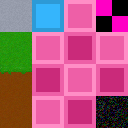
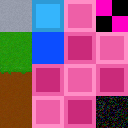
add rudimentary water

Changed region(s): [[0.25, 0.25, 0.5, 0.5]]

diff --git a/src/scene/world/scene.rs b/src/scene/world/scene.rs
@@ -22,10 +22,7 @@ use crate::{
 use raylib::{
     RaylibHandle,
     color::Color,
-    drawing::{
-        RaylibBlendModeExt, RaylibDraw, RaylibDraw3D, RaylibDrawHandle, RaylibMode3D,
-        RaylibMode3DExt,
-    },
+    drawing::{RaylibBlendModeExt, RaylibDraw, RaylibDraw3D, RaylibDrawHandle, RaylibMode3DExt},
     ffi,
     math::{BoundingBox, Vector3},
 };
@@ -62,7 +59,8 @@ pub struct WorldScene {
     player: Player,
     camera: Camera,
     level: Level,
-    level_mesh: Option<ffi::Model>,
+    level_mesh_opaque: Option<ffi::Model>,
+    level_mesh_water: Option<ffi::Model>,
     level_mesh_is_dirty: bool,
 }
 
@@ -92,7 +90,8 @@ impl WorldScene {
                 ZOOM_FOVY_DEFAULT,
             ),
             level,
-            level_mesh: None,
+            level_mesh_opaque: None,
+            level_mesh_water: None,
             level_mesh_is_dirty: true,
         }
     }
@@ -230,23 +229,38 @@ impl WorldScene {
 
         self.camera.update(&rl);
 
+        if self.level_mesh_is_dirty {
+            let (opaque_mesh, water_mesh) = build_mesh(&self.level.blocks);
+            self.level_mesh_opaque =
+                Some(make_model(upload_mesh(opaque_mesh), &assets.texture_atlas));
+            self.level_mesh_water =
+                Some(make_model(upload_mesh(water_mesh), &assets.texture_atlas));
+            self.level_mesh_is_dirty = false;
+        }
+
         Transition::None
     }
 
-    pub fn draw(&mut self, d: &mut RaylibDrawHandle, assets: &GameAssets) {
+    pub fn draw(&self, d: &mut RaylibDrawHandle, assets: &GameAssets) {
         d.clear_background(Color::SKYBLUE);
 
         let mut d3 = d.begin_mode3D(&self.camera.raycam);
 
-        self.draw_world_mesh(&mut d3, &assets);
+        if let Some(opaque) = self.level_mesh_opaque {
+            draw_mesh(opaque, self.is_showing_wireframe, 1.0);
+        }
+
+        self.player.draw(&mut d3, &self.camera, &assets);
+
+        if let Some(water) = self.level_mesh_water {
+            draw_mesh(water, self.is_showing_wireframe, 0.3);
+        }
 
         if let Some((x, y, z, ..)) = &self.hovered_block {
             let (x, y, z) = (*x as f32, *y as f32, *z as f32);
 
             d3.draw_cube_wires(Vector3::new(x, y + 0.5, z), 1.0, 1.0, 1.0, Color::RED);
         }
-
-        self.player.draw(&mut d3, &self.camera, &assets);
 
         drop(d3);
 
@@ -256,56 +270,15 @@ impl WorldScene {
         }
 
         if self.is_showing_pause_menu {
-            self.draw_frozen_text(d, "Paused");
+            draw_frozen_text(d, "Paused");
         } else if self.is_frozen {
-            self.draw_frozen_text(d, "Frozen");
+            draw_frozen_text(d, "Frozen");
         }
 
         if let Some(text) = &self.sign_text {
             d.draw_text(&text, 15, 132, 18, Color::BLACK.alpha(0.5));
             d.draw_text(&text, 10, 128, 18, Color::WHITE);
         }
-    }
-
-    fn draw_world_mesh(&mut self, _d3: &mut RaylibMode3D<RaylibDrawHandle>, assets: &GameAssets) {
-        if self.level_mesh_is_dirty {
-            self.level_mesh = Some(make_model(
-                upload_mesh(build_mesh(&self.level.to_material_map())),
-                &assets.texture_atlas,
-            ));
-            self.level_mesh_is_dirty = false;
-        }
-
-        if let Some(model) = self.level_mesh {
-            unsafe {
-                let pos = ffi::Vector3 {
-                    x: 0.0,
-                    y: 0.0,
-                    z: 0.0,
-                };
-                let white = ffi::Color {
-                    r: 255,
-                    g: 255,
-                    b: 255,
-                    a: 255,
-                };
-
-                if self.is_showing_wireframe {
-                    ffi::DrawModelWires(model, pos, 1.0, white);
-                } else {
-                    ffi::DrawModel(model, pos, 1.0, white);
-                }
-            }
-        }
-    }
-
-    fn draw_frozen_text(&self, d: &mut RaylibDrawHandle, label: &'static str) {
-        d.draw_text(label, 10, 4, 18, Color::WHITE);
-        let mut i = 0;
-        HELP_TEXTS.iter().for_each(|t| {
-            d.draw_text(*t, 10, 24 + (i * 18), 18, Color::WHITE);
-            i += 1;
-        });
     }
 
     fn draw_crosshair(&self, d: &mut RaylibDrawHandle, assets: &GameAssets) {
@@ -356,9 +329,40 @@ impl WorldScene {
 impl Drop for WorldScene {
     fn drop(&mut self) {
         unsafe {
-            if let Some(model) = self.level_mesh.take() {
+            if let Some(model) = self.level_mesh_opaque.take() {
                 ffi::UnloadModel(model);
             }
+            if let Some(model) = self.level_mesh_water.take() {
+                ffi::UnloadModel(model);
+            }
+        }
+    }
+}
+
+fn draw_mesh(model: ffi::Model, as_wireframe: bool, alpha: f32) {
+    const MODEL_POS: ffi::Vector3 = ffi::Vector3 {
+        x: 0.0,
+        y: 0.0,
+        z: 0.0,
+    };
+
+    unsafe {
+        let tint: ffi::Color = Color::WHITE.alpha(alpha).into();
+
+        if alpha < 1.0 {
+            ffi::rlDisableDepthMask();
+            ffi::BeginBlendMode(BlendMode::BLEND_ALPHA as i32);
+        }
+
+        if as_wireframe {
+            ffi::DrawModelWires(model, MODEL_POS, 1.0, tint);
+        } else {
+            ffi::DrawModel(model, MODEL_POS, 1.0, tint);
+        }
+
+        if alpha < 1.0 {
+            ffi::EndBlendMode();
+            ffi::rlEnableDepthMask();
         }
     }
 }
@@ -370,4 +374,13 @@ fn offset_from_normal(normal: Vector3) -> (i32, i32, i32) {
         normal.y.round() as i32,
         normal.z.round() as i32,
     )
+}
+
+fn draw_frozen_text(d: &mut RaylibDrawHandle, label: &'static str) {
+    d.draw_text(label, 10, 4, 18, Color::WHITE);
+    let mut i = 0;
+    HELP_TEXTS.iter().for_each(|t| {
+        d.draw_text(*t, 10, 24 + (i * 18), 18, Color::WHITE);
+        i += 1;
+    });
 }

diff --git a/src/scene/world/block.rs b/src/scene/world/block.rs
@@ -2,7 +2,7 @@ use raylib::ffi;
 use std::collections::HashMap;
 use std::mem;
 
-use crate::level::block::{BlockFace, Material};
+use crate::level::block::{Block, BlockFace, BlockState, Material};
 
 const ATLAS_COLS: u32 = 4;
 const ATLAS_ROWS: u32 = 4;
@@ -28,6 +28,7 @@ fn block_tile(mat: Material, face: BlockFace) -> (u32, u32) {
         Material::Stone => (0, 0),
         Material::Sign => (1, 0),
         Material::Barrier => (3, 3),
+        Material::Water => (1, 1),
         _ => (3, 0),
     }
 }
@@ -62,48 +63,76 @@ pub fn upload_mesh(data: MeshData) -> ffi::Mesh {
     }
 }
 
-fn is_solid(world: &HashMap<(i32, i32, i32), Material>, pos: (i32, i32, i32)) -> bool {
-    matches!(world.get(&pos), Some(b) if *b != Material::Air)
+fn is_solid_for(
+    world: &HashMap<(i32, i32, i32), Block>,
+    pos: (i32, i32, i32),
+    current: Material,
+    face: BlockFace,
+) -> bool {
+    match world.get(&pos) {
+        None => false,
+        Some(b) => match b.material {
+            Material::Air => false,
+            Material::Water => match face {
+                _ => current == Material::Water, // only cull water-water
+            },
+            _ => true,
+        },
+    }
 }
 
-pub fn build_mesh(world: &HashMap<(i32, i32, i32), Material>) -> MeshData {
-    let mut data = MeshData::default();
+fn block_height(block: &Block) -> f32 {
+    match block.state {
+        BlockState::LiquidLevel(level) => 0.9 * level,
+        _ => 1.0,
+    }
+}
 
-    for (&(x, y, z), &material) in world {
-        if material == Material::Air {
+pub fn build_mesh(world: &HashMap<(i32, i32, i32), Block>) -> (MeshData, MeshData) {
+    let mut opaque = MeshData::default();
+    let mut water = MeshData::default();
+
+    for (&(x, y, z), block) in world {
+        if block.material == Material::Air {
             continue;
         }
 
         let (xi, yi, zi) = (x as i32, y as i32, z as i32);
         let (fx, fy, fz) = (x as f32, y as f32, z as f32);
 
+        let h = block_height(&block);
         let candidates = [
-            (BlockFace::Up, xi, yi + 1, zi, 1.0f32),
-            (BlockFace::Down, xi, yi - 1, zi, 0.6),
-            (BlockFace::North, xi, yi, zi + 1, 0.8),
-            (BlockFace::South, xi, yi, zi - 1, 0.8),
-            (BlockFace::East, xi + 1, yi, zi, 0.9),
-            (BlockFace::West, xi - 1, yi, zi, 0.9),
+            (BlockFace::Up, xi, yi + 1, zi, 1.0, h),
+            (BlockFace::Down, xi, yi - 1, zi, 0.6, h),
+            (BlockFace::North, xi, yi, zi + 1, 0.8, h),
+            (BlockFace::South, xi, yi, zi - 1, 0.8, h),
+            (BlockFace::East, xi + 1, yi, zi, 0.9, h),
+            (BlockFace::West, xi - 1, yi, zi, 0.9, h),
         ];
 
-        for (face, nx, ny, nz, brightness) in candidates {
-            if is_solid(world, (nx, ny, nz)) {
+        for (face, nx, ny, nz, brightness, h) in candidates {
+            if is_solid_for(world, (nx, ny, nz), block.material, face) {
                 continue;
             }
-            let (tc, tr) = block_tile(material, face);
+            let (tc, tr) = block_tile(block.material, face);
+            let target = match block.material {
+                Material::Water => &mut water,
+                _ => &mut opaque,
+            };
             push_face(
-                &mut data,
+                target,
                 face,
                 fx,
                 fy,
                 fz,
+                h,
                 tile_uvs(tc, tr, ATLAS_COLS, ATLAS_ROWS),
                 brightness,
             );
         }
     }
 
-    data
+    (opaque, water)
 }
 
 fn push_face(
@@ -112,11 +141,12 @@ fn push_face(
     x: f32,
     y: f32,
     z: f32,
+    height: f32,
     uvs: (f32, f32, f32, f32),
     brightness: f32,
 ) {
     let (x0, x1) = (x - 0.5, x + 0.5);
-    let (y0, y1) = (y, y + 1.0);
+    let (y0, y1) = (y, y + height);
     let (z0, z1) = (z - 0.5, z + 0.5);
 
     let verts: [[f32; 3]; 4] = match face {

diff --git a/src/level/level.rs b/src/level/level.rs
@@ -30,7 +30,11 @@ impl Level {
                     } else if y >= LEVEL_Y_SURFACE - 3 && y < LEVEL_Y_SURFACE {
                         Material::Dirt.default()
                     } else if y == LEVEL_Y_SURFACE {
-                        Material::Grass.default()
+                        if x > -5 && x < 5 && z > -5 && z < 5 {
+                            Material::Water.default()
+                        } else {
+                            Material::Grass.default()
+                        }
                     } else {
                         Material::Air.default()
                     };
@@ -41,12 +45,5 @@ impl Level {
         }
 
         Self { blocks }
-    }
-
-    pub fn to_material_map(&self) -> HashMap<(i32, i32, i32), Material> {
-        self.blocks
-            .iter()
-            .map(|(&(x, y, z), block)| ((x, y, z), block.material))
-            .collect()
     }
 }

diff --git a/src/level/block/material.rs b/src/level/block/material.rs
@@ -7,6 +7,7 @@ pub enum Material {
     Dirt = 2,
     Grass = 3,
     Stone = 4,
+    Water = 10,
     Sign = 15,
 }
 
@@ -18,6 +19,7 @@ impl Material {
             Material::Dirt => Block::new(self, BlockState::None),
             Material::Grass => Block::new(self, BlockState::None),
             Material::Stone => Block::new(self, BlockState::None),
+            Material::Water => Block::new(self, BlockState::LiquidLevel(1.0)),
             Material::Sign => Block::new(self, BlockState::Sign("".to_string())),
         }
     }

diff --git a/src/level/block/state.rs b/src/level/block/state.rs
@@ -2,4 +2,5 @@
 pub enum BlockState {
     None,
     Sign(String),
+    LiquidLevel(f32),
 }